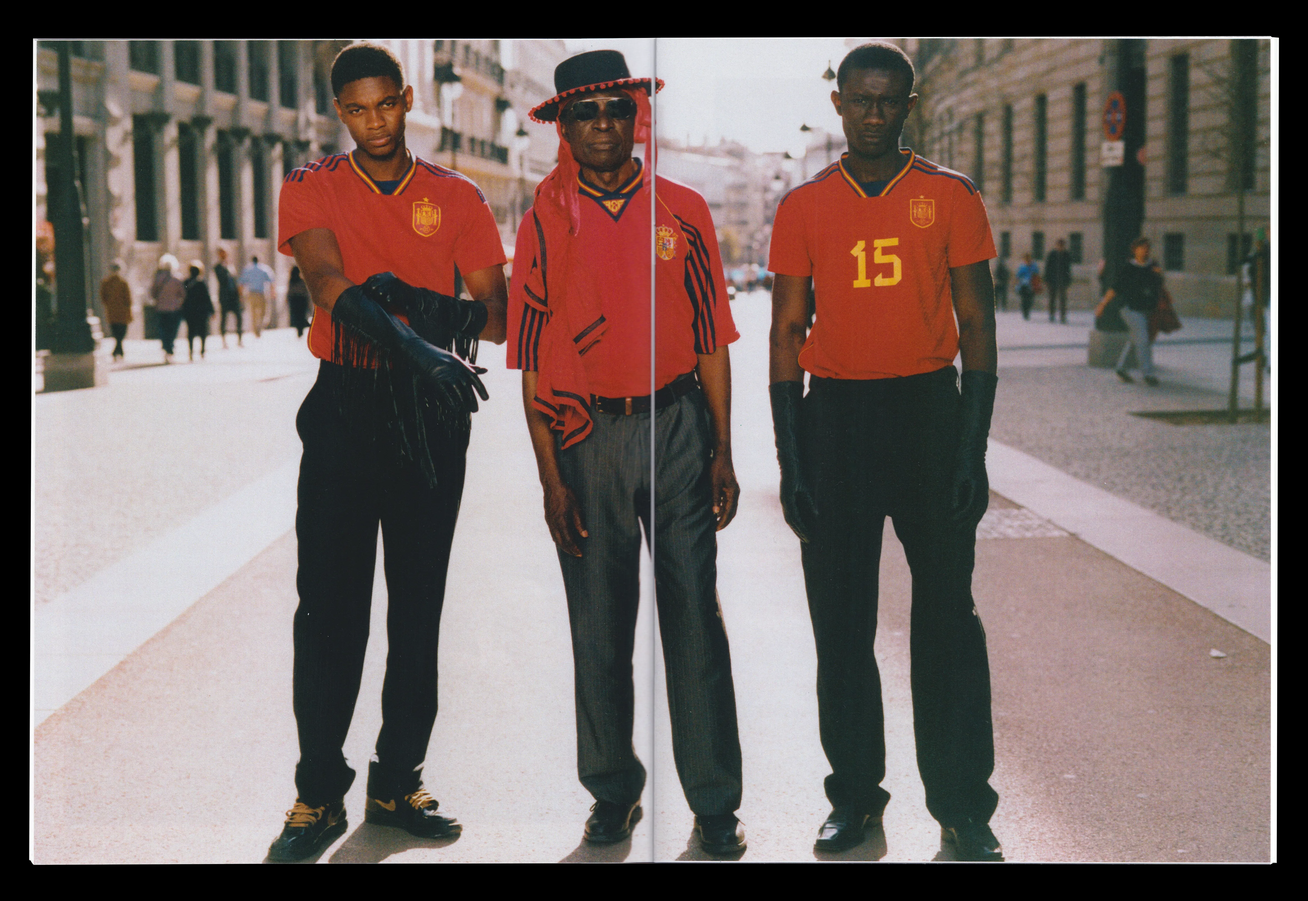
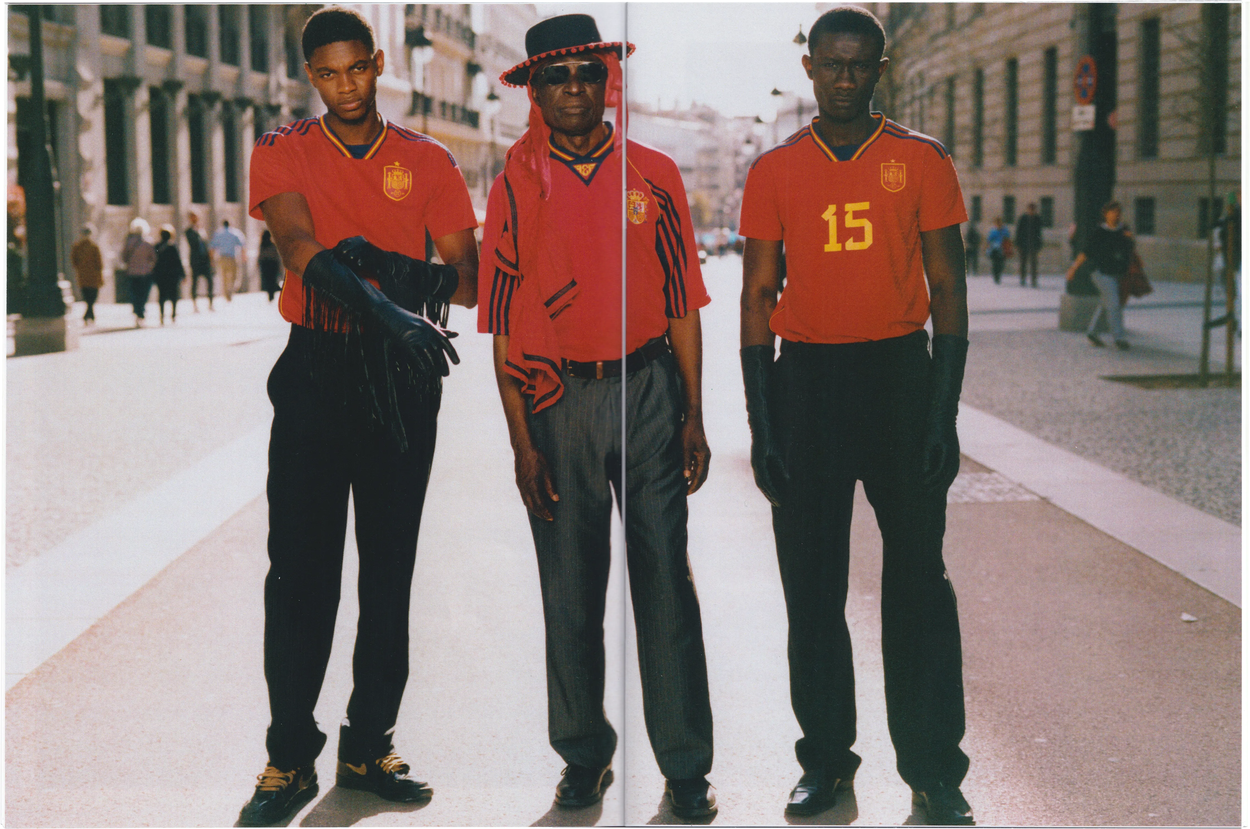
changes

diff --git a/projects/olivia-bay-el-amor-no-está-de-moda/index.html b/projects/olivia-bay-el-amor-no-está-de-moda/index.html
@@ -1,0 +1,86 @@
+<!DOCTYPE html>
+<html lang="es">
+
+<head>
+  <meta charset="UTF-8">
+  <meta name="viewport" content="width=device-width, initial-scale=1.0">
+   <title>Olivia Bay – El amor no está de moda</title>
+  <link rel="stylesheet" href="/css/styles.css">
+  <link rel="stylesheet" href="/css/project-page.css">
+  <link rel="icon" href="/images/favicon.png" type="image/x-icon">
+</head>
+
+<body>
+
+  <header class="headermiguel">
+    <div class="nombremiguel">
+      Miguel Vides, <span>photographer and graphic designer</span>
+    </div>
+    <div class="infor" id="infoBtn">info</div>
+    <div class="homer" id="homeBtn">back</div>
+    <a class="indexview" id="indexBtn" href="/">home</a>
+  </header>
+
+  <main class="content">
+    <div class="contenedor-proyecto">
+      <div class="nombre-proyecto">
+        <div class="fecha-proyecto">2026</div>
+        <div class="titulo-proyecto">
+          Olivia Bay – El amor no está de moda
+        </div>
+        <div class="subtitulo-proyecto">
+          Graphic design for Olivia Bay’s El amor no está de moda EP, including vinyl, CD and fanzine.
+        </div>
+
+      </div>
+      <div class="imagenes-proyecto">
+        <img src="/images/ob_1.webp">
+        <img src="/images/ob_2.webp">
+        <img src="/images/ob_3.webp">
+        <img src="/images/ob_4.webp">
+        <img src="/images/ob_5.webp">
+        <img src="/images/ob_6.webp">
+        <img src="/images/ob_7.webp">
+        <img src="/images/ob_8.webp">
+        <img src="/images/ob_9.webp">
+      </div>
+      <div class="creditos-proyecto">
+        <div class="credito">
+           <div class="categoria">graphic design</div>
+          <div class="nombre">Miguel Vides</div>
+          <div class="categoria">photography</div>
+          <div class="nombre">Juan Bermejo</div>
+           <div class="categoria">creative direction</div>
+          <div class="nombre">Agustina Piriz</div>
+          <div class="categoria">styling</div>
+          <div class="nombre">@princesa._.5</div>
+          <div class="categoria">art direction</div>
+          <div class="nombre">Blanca de la Cierva</div>
+        </div>
+      </div>
+    </div>
+    </div>
+
+    <div class="info" id="infoSection">
+    Miguel Vides is an Art Director focused on Graphic Design and Photography based in Madrid. He works across
+    cultural, music, and fashion projects. <br><br><span style="color: gray;">Selected clients</span><br>Zara<br>Balenciaga<br>Pull&Bear<br>Lottusse<br>ICON El
+    País<br>Sony Music<br>ZEIT Magazine<br>Universal Music<br><br>His
+    work has been published
+    in It’s Nice That (<a
+      href="https://www.itsnicethat.com/articles/miguel-vides-discover-graphic-design-photography-270922">2022</a>),(<a
+      href="https://www.itsnicethat.com/articles/miguel-vides-discover-graphic-design-photography-270922">2024</a>),(<a
+      href="https://www.itsnicethat.com/features/forward-thinking-graphic-trends-2026-graphic-design-120126">2026</a>),
+    Acero Magazine (<a
+      href="https://acero.metalmagazine.eu/post/miguel-vides-minimalismo-caotico">2024</a>), and Drool Art. He was also a finalist in the 2026 Miquel Casablancas
+    Award.<br><br>For project proposals, please get in touch at holamiguelvides@gmail.com<br><br>
+    Website design and programming by Miguel Vides.<br><br>
+    <span style="color: gray;"> © All rights reserved, 2026</span><br><br>
+    
+  </div>
+
+    <script src="/script/popup.js"></script>
+    <script src="/script/project-page.js"></script>
+
+</body>
+
+</html>

diff --git a/index.html b/index.html
@@ -27,9 +27,17 @@
   <main class="content">
     <div class="center">
       <div class="proyectos" id="projectsSection">
+        <a class="proyectomiguel" href="/projects/olivia-bay-el-amor-no-está-de-moda/"
+           data-project="Olivia Bay / El amor no está de moda">
+           <img src="/images/ob_1.webp">
+        </a>
+        <a class="proyectomiguel" href="/projects/olivia-bay-el-amor-no-está-de-moda/"
+           data-project="Olivia Bay / El amor no está de moda">
+           <img src="/images/ob_3.webp">
+        </a>
         <a class="proyectomiguel" href="/projects/esto-es-españa-fanzine/"
            data-project="Esto Es España Fanzine">
-           <img src="/images/3_EEE_FANZINE_ESCANEADO.gif">
+           <img src="/images/1_EEE_FANZINE_ESCANEADO.webp">
         </a>
         <a class="proyectomiguel" href="/projects/La-pija-y-la-quinqui-s6/"
            data-project="La Pija y La Quinqui s6">
@@ -188,7 +196,7 @@
 
   <div class="info" id="infoSection">
     Miguel Vides is an Art Director focused on Graphic Design and Photography based in Madrid. He works across
-    cultural, music, and fashion projects. <br><br><span style="color: gray;">Selected clients</span><br>Zara<br>Balenciaga<br>Pull&Bear<br>Lottusse<br>ICON El
+    cultural, music, and fashion projects. <br><br><span style="color: gray;">Selected clients</span><br>Zara<br>Balenciaga<br>Pull&Bear<br>Lottusse<br>Alana<br>ICON El
     País<br>Sony Music<br>ZEIT Magazine<br>Universal Music<br><br>His
     work has been published
     in It’s Nice That (<a
